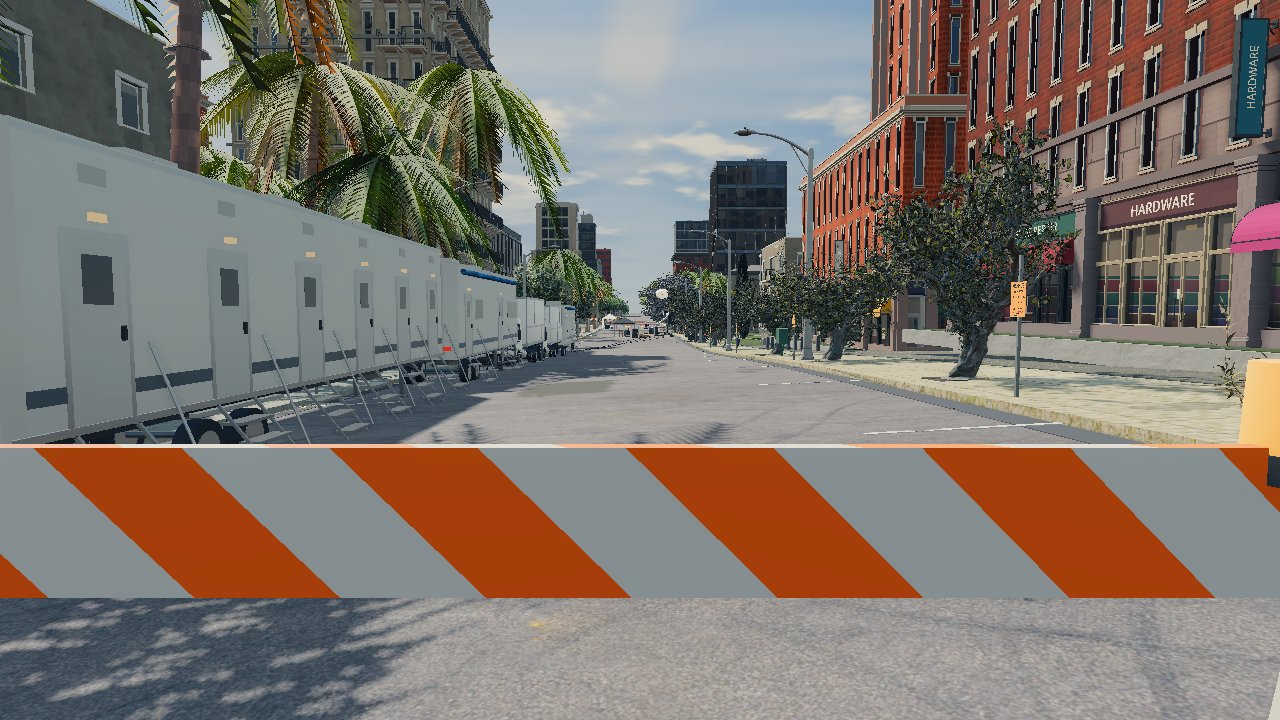
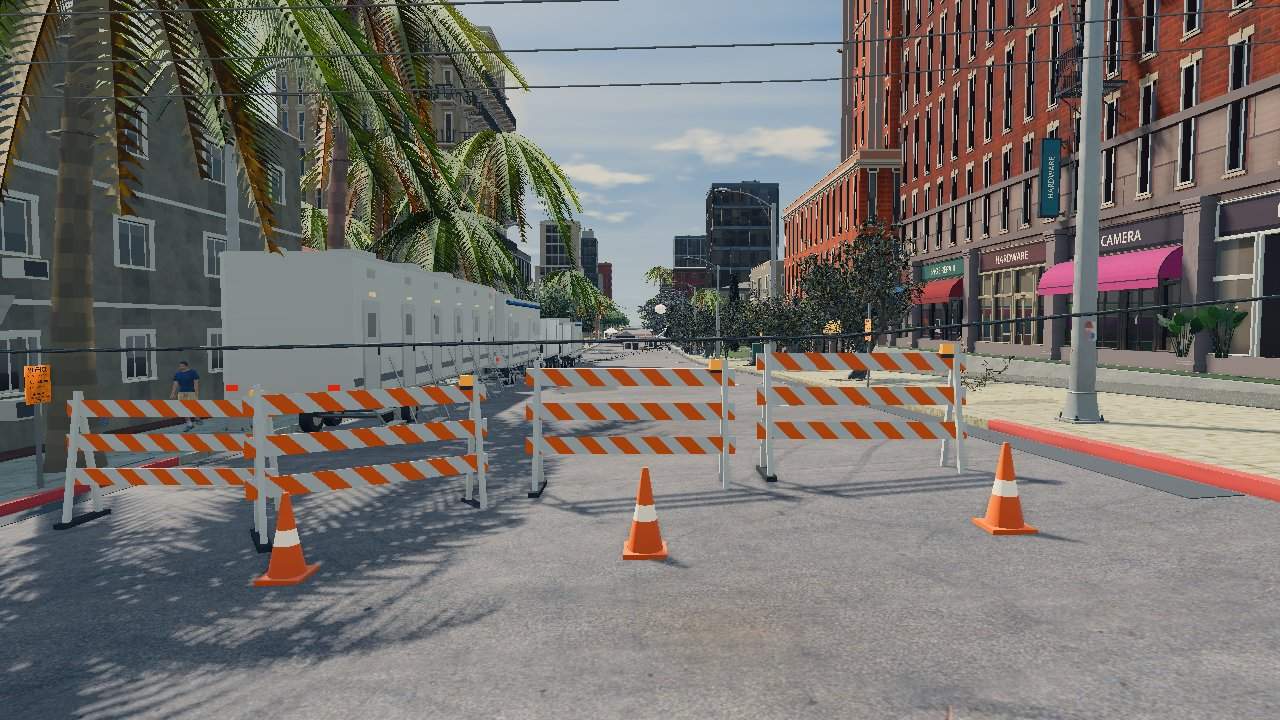
Film shoot stills: before / after day and night

diff --git a/README.md b/README.md
@@ -1,10 +1,19 @@
 # Film shoot on location (wt/film-shoot)
 
-Seed 1337, "CREST AVE" in midtown (x ~1490, z -1270..-1100), opengl3 block_shot stills
-(Compatibility renderer: flat light; the Mac draws Forward+).
+Seed 1337, "CREST AVE" in midtown (x ~1490, z -1270..-1100), the production "BLUE HOUR KIDS"
+(RED LANTERN FILMS, code BHK). opengl3 block_shot stills (Compatibility renderer: flat light,
+crude night; the Mac draws Forward+). Same three cameras before (`FILM_SHOOT=0`) and after.
 
-- `02_after_street_closed_noon.jpg` - the closure from the junction: the barricade, the
-  honeywagon and cast trailers with their steps along the kerb, the trucks beyond.
-- `03_after_set_dolly_crane_balloon.jpg` - the set: dolly on its track, the crane, an HMI, the
-  balloon light, black flags and a bounce, video village under the black pop-up, cables.
-- `04_after_aerial.jpg` - from 26 m up.
+- `01_before_street_noon.jpg` / `02_after_street_closed_noon.jpg` - from the junction: the
+  barricades and cones, the honeywagon and cast trailers along the kerb, orange notices.
+- `03_before_set_noon.jpg` / `04_after_set_dolly_crane_balloon_noon.jpg` - the set: dolly on its
+  track, the crane, an HMI, the balloon light, flags and a bounce, video village under the black
+  pop-up, cables.
+- `05_before_aerial.jpg` / `06_after_aerial.jpg` - from 26 m.
+- `07_after_closure_night.jpg`, `08_after_set_balloon_hmi_night.jpg`,
+  `09_after_aerial_night.jpg` - after dark: the balloon and HMI lenses lit, the barricades'
+  retroreflective stripes and lamps.
+
+Frame cost (block_shot GEO, the three cameras, triangles / draws): before 5.68M / 3009,
+4.82M / 2462, 4.68M / 2654; after 5.19M / 2949, 4.43M / 2421, 4.66M / 2664 (the closed street
+loses its parked cars and traffic).
